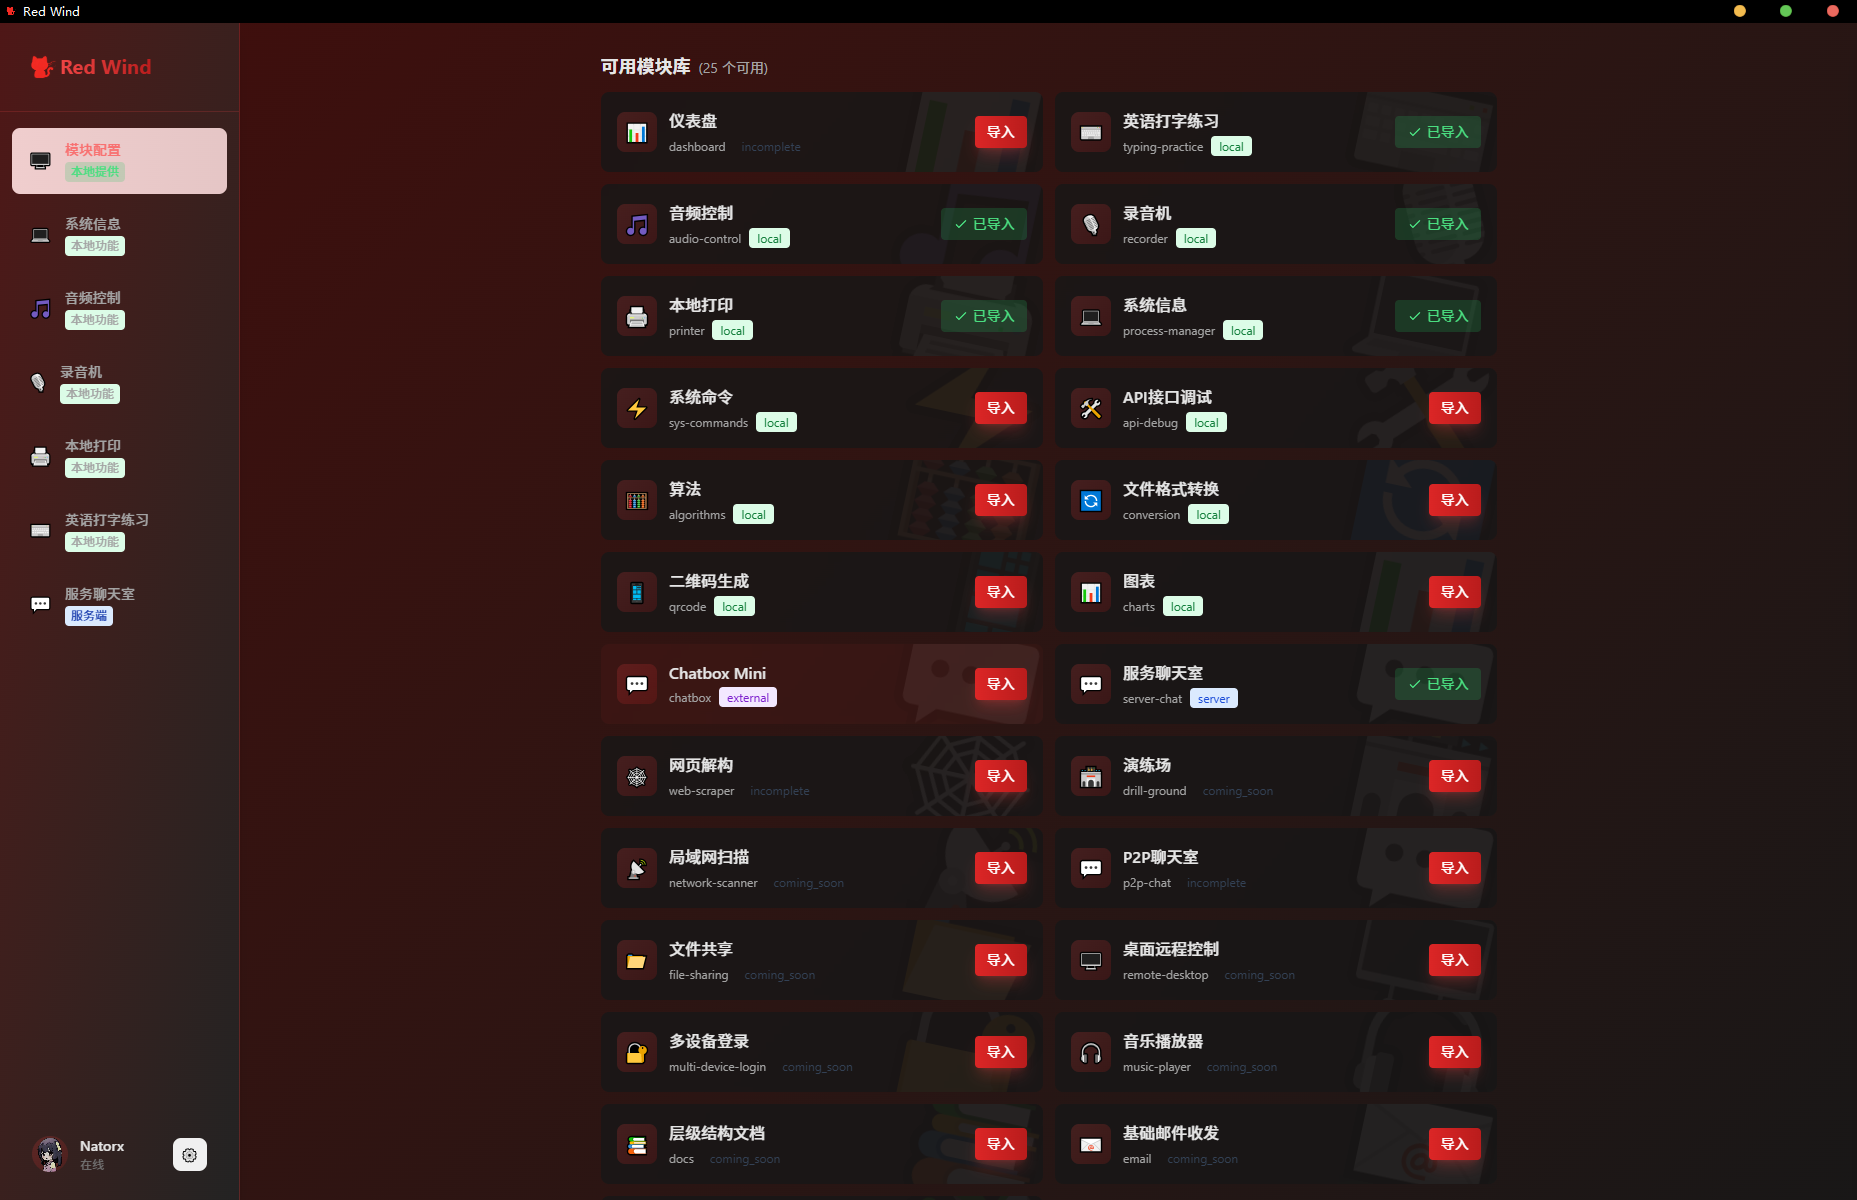
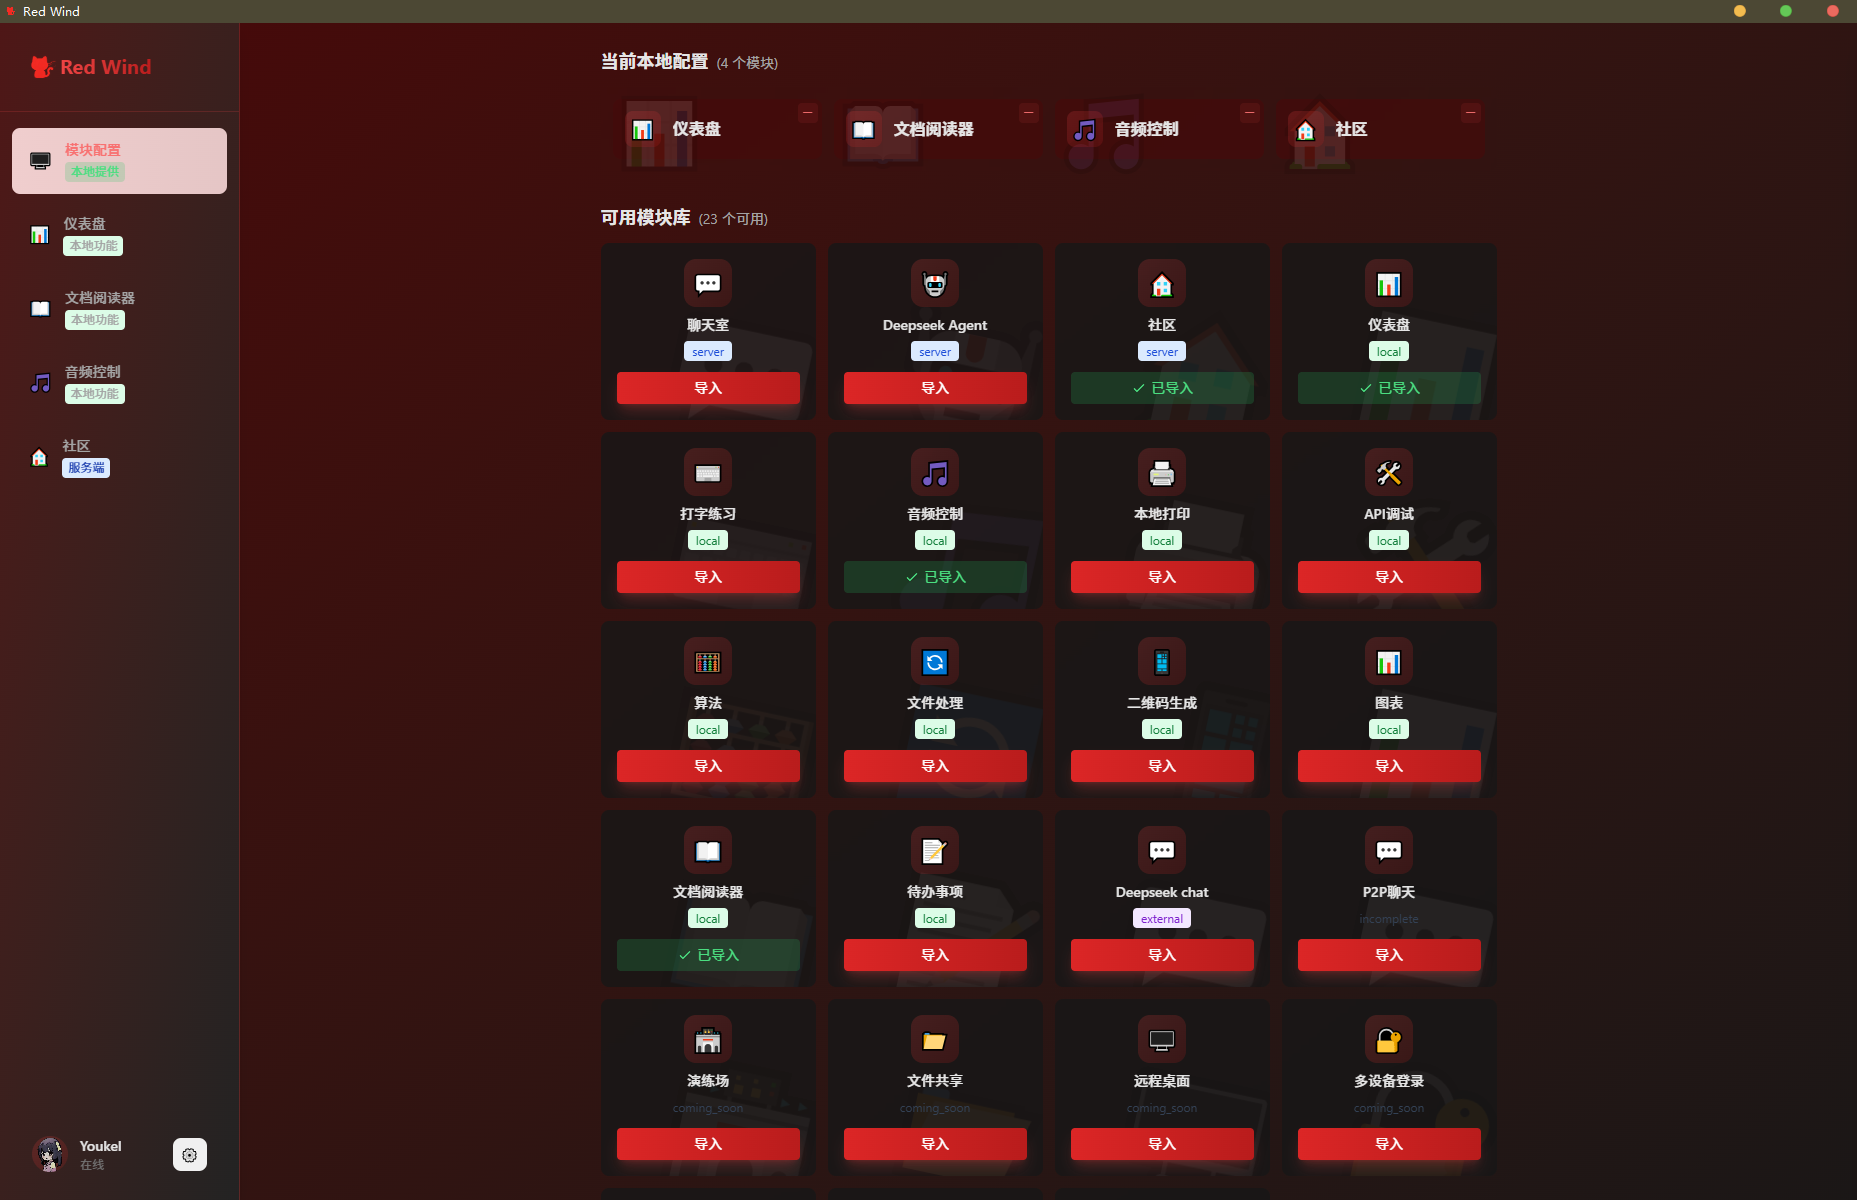
pics

diff --git a/README.md b/README.md
@@ -10,7 +10,6 @@ After launching the program, you need to configure the required modules yourself
 ![alt text](assets/pics-doc/a_modules.png)
 ![alt text](assets/pics-doc/a_start.png)
 ![alt text](assets/pics-doc/audio_control.png)
-![alt text](assets/pics-doc/audio_record.png)
 ![alt text](assets/pics-doc/chat_ai.png)
 ![alt text](assets/pics-doc/chat_server.png)
 ![alt text](assets/pics-doc/conversion.png)

diff --git a/README.zh-CN.md b/README.zh-CN.md
@@ -11,7 +11,6 @@
 ![alt text](assets/pics-doc/a_modules.png)
 ![alt text](assets/pics-doc/a_start.png)
 ![alt text](assets/pics-doc/audio_control.png)
-![alt text](assets/pics-doc/audio_record.png)
 ![alt text](assets/pics-doc/chat_ai.png)
 ![alt text](assets/pics-doc/chat_server.png)
 ![alt text](assets/pics-doc/conversion.png)
